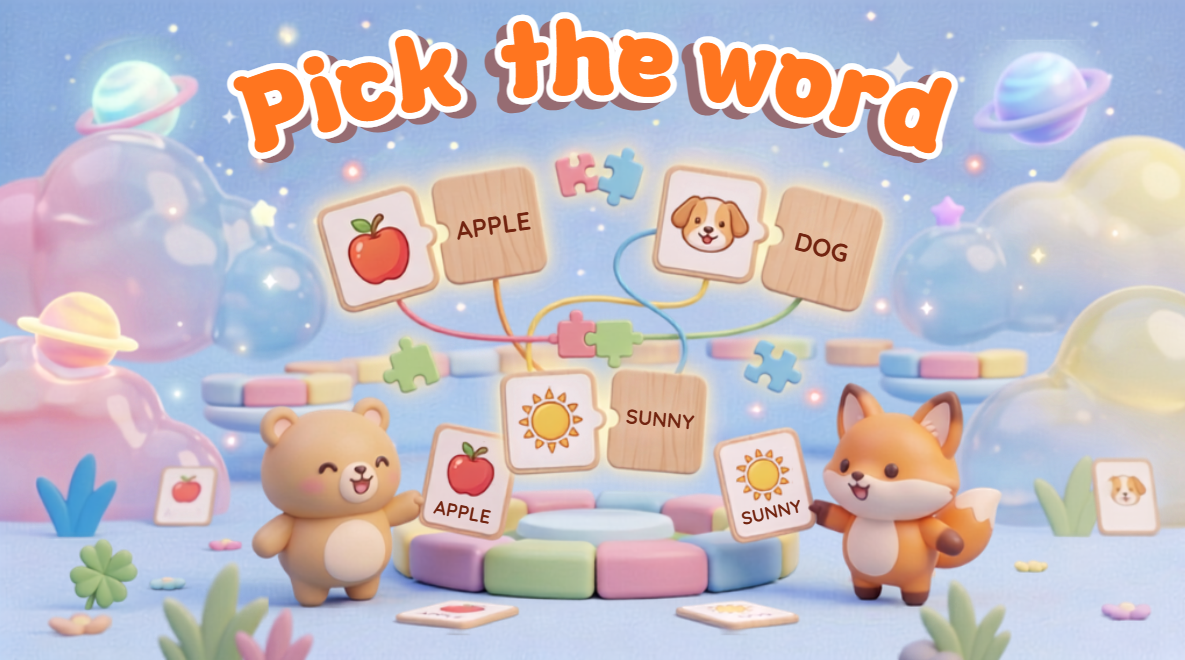
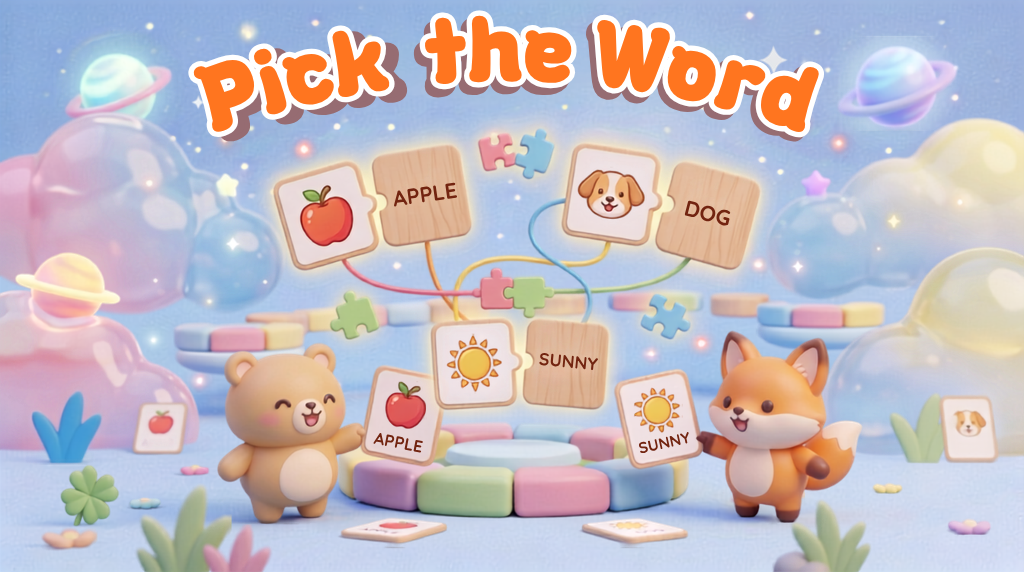
c

diff --git a/index.html b/index.html
@@ -553,7 +553,7 @@ window.removeWhiteBackground = function (imgEl, opts) {
 
 <div id="intro-screen" class="flex items-center justify-center" style="width:100%;height:100%;overflow:hidden;background:#bcd4f0;position:absolute;inset:0;box-sizing:border-box;">
   <div id="intro-wrapper" style="width:100%;height:100%;position:relative;overflow:hidden;font-family:'KERISKEDU',sans-serif;background:#bcd4f0;flex-shrink:0;">
-    <img src="introbg.jpg" alt="Pick the Word game art" style="position:absolute;inset:0;width:100%;height:100%;object-fit:cover;">
+    <img src="introbg.png" alt="Pick the Word game art" style="position:absolute;inset:0;width:100%;height:100%;object-fit:cover;">
 
     <div style="position:absolute;left:0;right:0;bottom:0px;display:flex;flex-direction:column;align-items:center;gap:16px;padding:0 40px 20px;">
       <div style="display:flex;align-items:center;gap:14px;">
